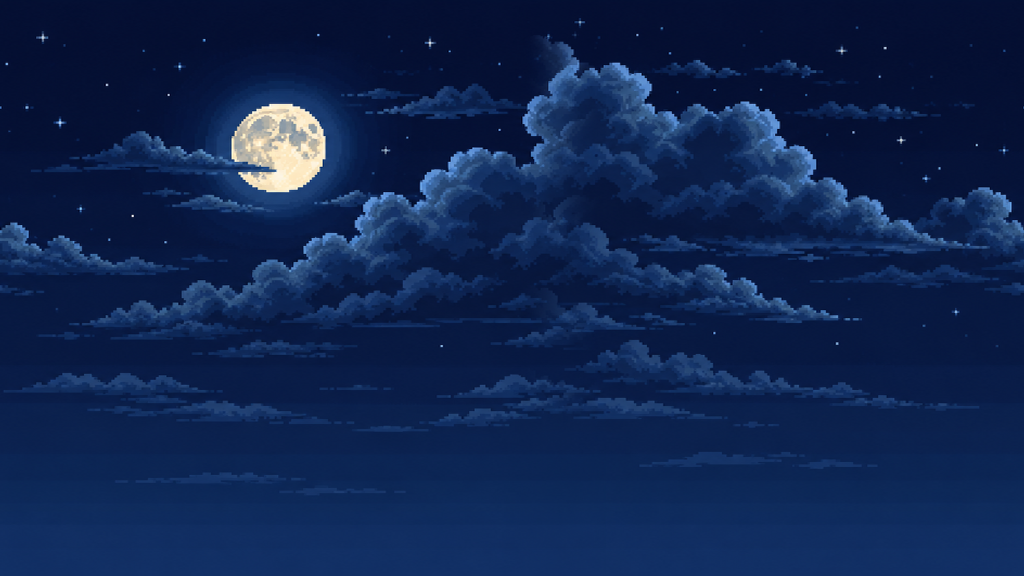
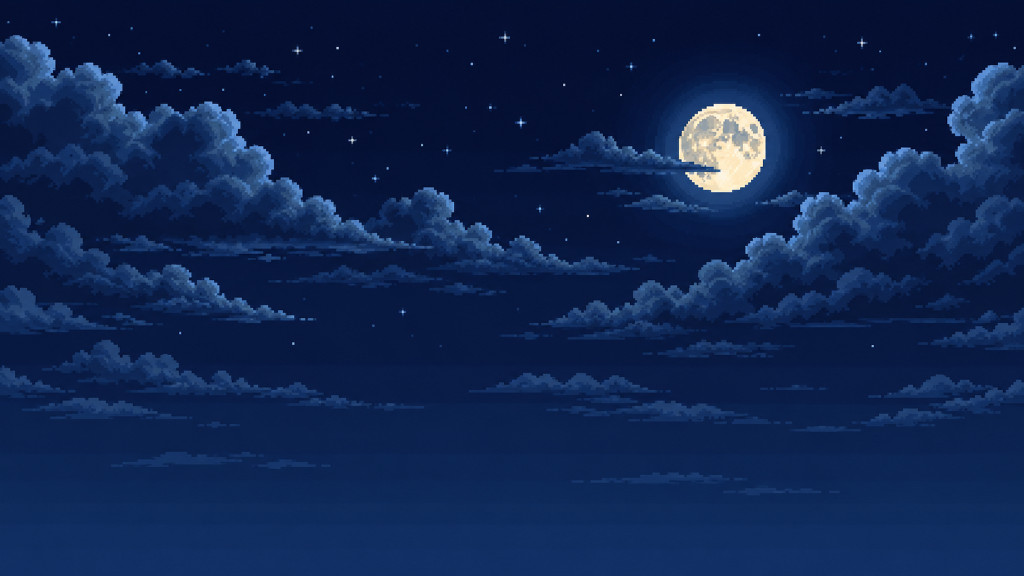
fix(rendering): render 16-bit parallax layers with square pixel aspect ratio and restore raw sky

diff --git a/src/rendering/ParallaxBackground.ts b/src/rendering/ParallaxBackground.ts
@@ -8,6 +8,7 @@ interface LayerEntry {
   mesh: THREE.Mesh;
   texture: THREE.Texture;
   texWidth: number;
+  texHeight: number;
   baseYOffset: number;
 }
 
@@ -39,6 +40,7 @@ export class ParallaxBackground {
 
     for (const cfg of configs) {
       let texWidth = 1024;
+      let texHeight = viewportHeight;
       let initialTexture: THREE.Texture;
 
       // Fallback procedural texture
@@ -48,7 +50,8 @@ export class ParallaxBackground {
       initialTexture.generateMipmaps = false;
       initialTexture.wrapS = THREE.RepeatWrapping;
       initialTexture.wrapT = THREE.ClampToEdgeWrapping;
-      initialTexture.repeat.set(viewportWidth / texWidth, 1.0);
+      const initialTileW = texWidth * (viewportHeight / texHeight);
+      initialTexture.repeat.set(viewportWidth / initialTileW, 1.0);
 
       const material = new THREE.MeshBasicMaterial({
         map: initialTexture,
@@ -69,6 +72,7 @@ export class ParallaxBackground {
         mesh,
         texture: initialTexture,
         texWidth,
+        texHeight,
         baseYOffset: cfg.yOffset || 0
       };
       this.layers.push(entry);
@@ -86,10 +90,13 @@ export class ParallaxBackground {
             loadedTex.wrapT = THREE.ClampToEdgeWrapping;
 
             const texW = loadedTex.image ? loadedTex.image.width : 1024;
+            const texH = loadedTex.image ? loadedTex.image.height : 576;
             entry.texWidth = texW;
+            entry.texHeight = texH;
 
-            // 1:1 Pixel Art Scale: 384 screen pixels across viewportWidth
-            loadedTex.repeat.set(this.viewportWidth / texW, 1.0);
+            // Maintain uniform square 16-bit pixel aspect ratio:
+            const screenTileW = texW * (this.viewportHeight / texH);
+            loadedTex.repeat.set(this.viewportWidth / screenTileW, 1.0);
             loadedTex.needsUpdate = true;
 
             material.map = loadedTex;
@@ -141,7 +148,8 @@ export class ParallaxBackground {
         scrollPixelX += riverWave;
       }
 
-      const scrollOffset = scrollPixelX / layer.texWidth;
+      const screenTileW = layer.texWidth * (this.viewportHeight / layer.texHeight);
+      const scrollOffset = screenTileW > 0 ? scrollPixelX / screenTileW : 0;
       layer.texture.offset.x = scrollOffset;
     }
   }
@@ -156,8 +164,9 @@ export class ParallaxBackground {
 
     for (const layer of this.layers) {
       layer.mesh.scale.set(this.viewportWidth, this.viewportHeight, 1);
-      if (layer.texWidth > 0) {
-        layer.texture.repeat.set(this.viewportWidth / layer.texWidth, 1.0);
+      const screenTileW = layer.texWidth * (this.viewportHeight / layer.texHeight);
+      if (screenTileW > 0) {
+        layer.texture.repeat.set(this.viewportWidth / screenTileW, 1.0);
         layer.texture.needsUpdate = true;
       }
     }
